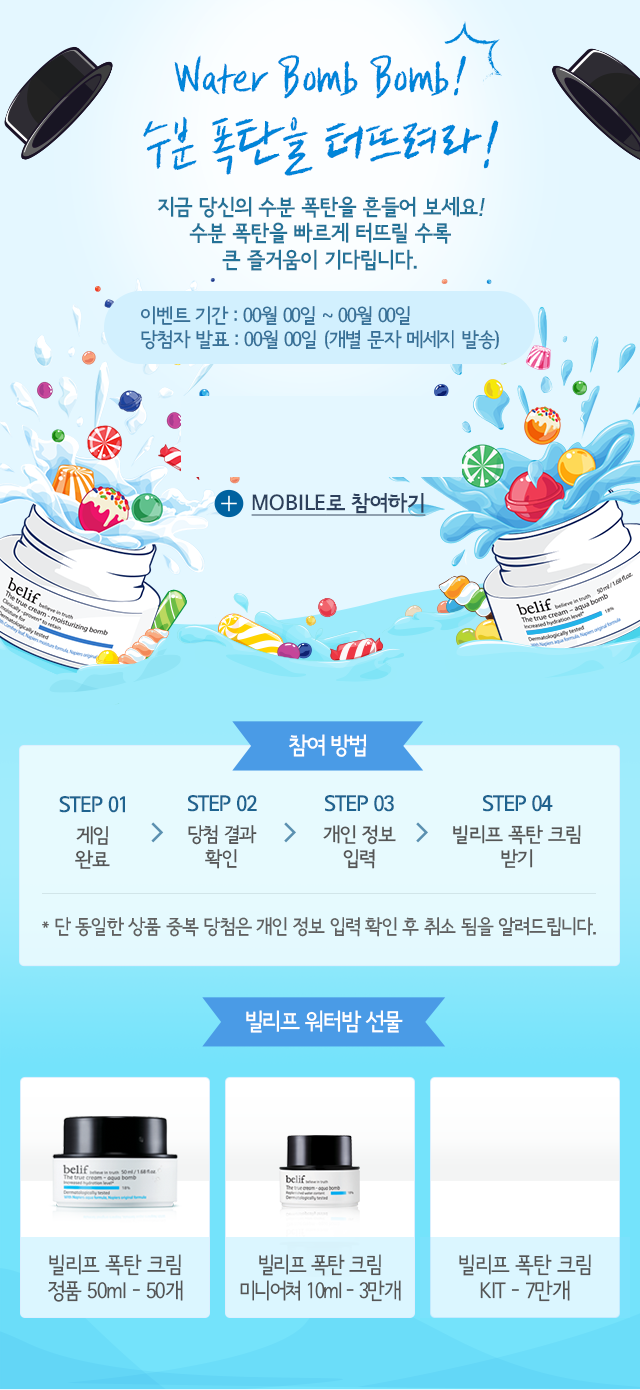
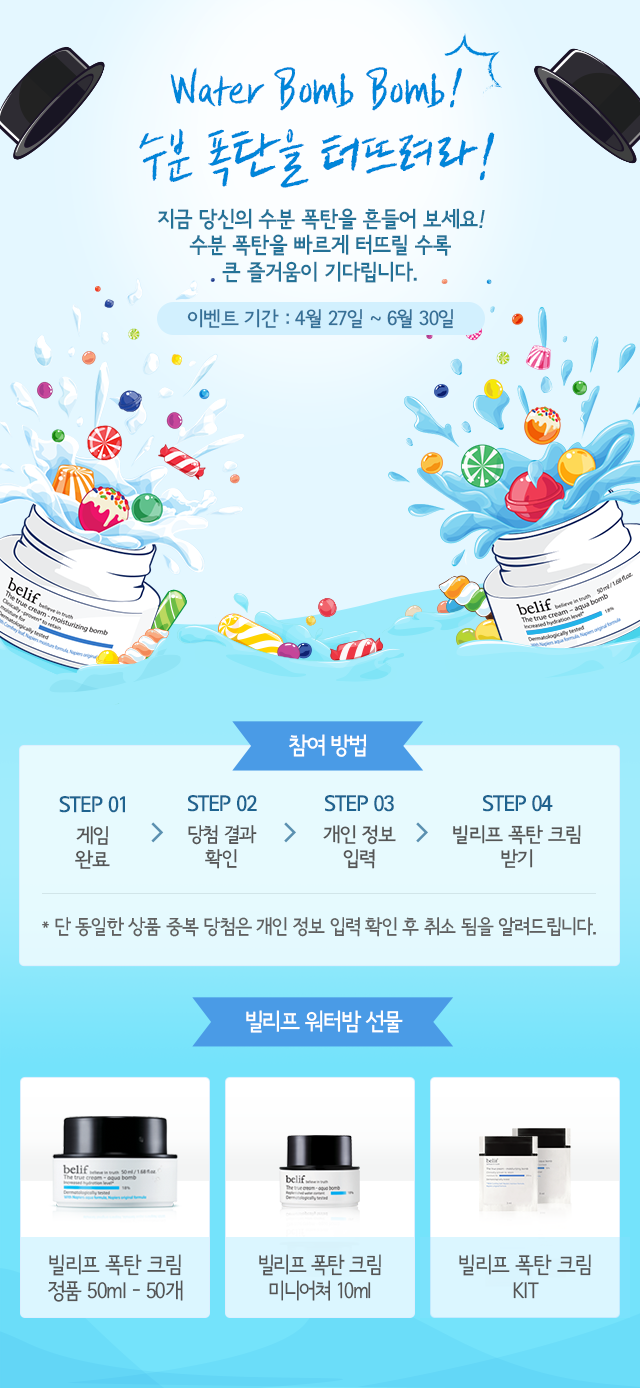
모바일 코

diff --git a/MOBILE/css/style.css b/MOBILE/css/style.css
@@ -150,27 +150,48 @@ html[xmlns] .clearfix {
 
 .menu {
 	width:100%;
-	border-bottom:1px solid #ccc;
+	border-bottom:1px solid #cae7f3;
+	position:fixed;
+	top:0;
+	z-index:10000;
+	background:#fff;
 }
 
 .menu a{
 	display:block;
 	float:left;
 }
+.menu a.logo{
+	padding-top:10px;
+	padding-left:10px;
+	width:15%;
+}
+.menu a.logo img{
+	width:100%;
+}
 .menu a.menu_ham{
 	display:block;
 	float:right;
+	width:12%;
+	background:#effaff;
+	padding:10px 0;
+	text-align:center;
+}
+.menu a.menu_ham img{
+	width:70%;
 }
 
 .block_game{
 	position:relative;
 	width:100%;
 	text-align:center;
-	height:100%;
+	margin-bottom: -1.2%;
+	padding-top:10%;
 }
 .block_game .inner_ele{
 	width:100%;
 	position:absolute;
+	top:28%;
 }
 .block_game .bg_top{
 }
@@ -198,6 +219,97 @@ html[xmlns] .clearfix {
 .block_game .txt_2 img{
 	width:95%;
 }
+
+.offevent1 {
+	position:relative;
+	width:100%;
+	text-align:center;
+	margin-bottom: -1.2%;
+}
+.offevent1 .inner_ele{
+	width:100%;
+	position:absolute;
+	top:30%;
+}
+.offevent1 .btn_block{
+	padding:5% 0;
+}
+.offevent1 .btn_block a img{
+	width:40%;
+}
+.bg_offevnet1 img{
+	width:100%;
+}
+
+
+
+
+.offevent2 {
+	position:relative;
+	width:100%;
+	text-align:center;
+	margin-bottom: -1.2%;
+}
+.offevent2 .inner_ele{
+	width:100%;
+	position:absolute;
+	top:23.5%;
+}
+.offevent2 .btn_block{
+	padding:5% 0;
+}
+.offevent2 .btn_block a img{
+	width:40%;
+}
+.bg_offevnet2 img{
+	width:100%;
+}
+
+
+.mbom1 {
+	position:relative;
+	width:100%;
+	text-align:center;
+	margin-bottom: -1.2%;
+}
+.mbom1 .inner_ele{
+	width:100%;
+	position:absolute;
+	bottom:4.5%;
+}
+.mbom1 .btn_block{
+	padding:5% 0;
+}
+.mbom1 .btn_block a img{
+	width:50%;
+}
+.bg_mbom img{
+	width:100%;
+}
+
+
+.abom1 {
+	position:relative;
+	width:100%;
+	text-align:center;
+	margin-bottom: -1.2%;
+}
+.abom1 .inner_ele{
+	width:100%;
+	position:absolute;
+	bottom:4.5%;
+}
+.abom1 .btn_block{
+	padding:5% 0;
+}
+.abom1 .btn_block a img{
+	width:50%;
+}
+.bg_abom img{
+	width:100%;
+}
+
+
 
 .img_wrap{
 	width:100%;

diff --git a/MOBILE/index.php b/MOBILE/index.php
@@ -2,39 +2,60 @@
 	include_once "./header.php";
 ?>
 <div class="menu clearfix">
-   <a href="localhost/beliefbomb/MOBILE/index.php" target="_blank"><img src="img/logo.png" width="60" alt=""/></a>
-   <a href="http://www.belifcosmetic.com/" target="_blank" class="menu_ham"><img src="img/menu_ham.png" width="45" alt=""/></a>
+   <a href="localhost/beliefbomb/MOBILE/index.php" target="_blank" class="logo"><img src="img/logo.png" alt=""/></a>
+   <a href="http://www.belifcosmetic.com/" target="_blank" class="menu_ham"><img src="img/menu_ham.png" alt=""/></a>
 </div>
 <div>
   <div>
     <div class="block_game">
       <div class="inner_ele">
-          <div class="title img_wrap"><img src="img/title.png" alt=""/></div>
           <div class="btn_block">
           	<a href="#" data-mfp-src="#input_div" class="popup-with-zoom-anim" style="background:none;outline: none;">
             	<img src="img/btn_game_go.png" alt=""/>
             </a>
           </div>
-          <div class="txt_1 img_wrap">
-            <img src="img/txt_game_info_1.png" alt=""/>
-          </div>
-          <div class="txt_2 img_wrap">
-            <img src="img/txt_game_info_2.png" alt=""/>
-          </div>
       </div>   
       <div class="bg_top img_wrap"><img src="img/bg_top.png" alt=""/></div>   
+    </div>
+    <div class="offevent1">
+        <div class="inner_ele">
+            <div class="btn_block">
+              <a href="#"><img src="img/btn_cal.png" alt=""/></a>
+            </div>
+        </div>    
+    	<div class="bg_offevnet1 img_wrap"><img src="img/bg_offevent1.png" alt=""/></div>  
+    </div>
+    <div class="offevent2">
+        <div class="inner_ele">
+            <div class="btn_block">
+              <a href="#"><img src="img/btn_cal.png" alt=""/></a>
+            </div>
+        </div>    
+    	<div class="bg_offevnet2 img_wrap"><img src="img/bg_offevent2.png" alt=""/></div>  
+    </div>
+    <div class="mbom1">
+        <div class="inner_ele">
+            <div class="btn_block">
+              <a href="#"><img src="img/btn_detail_m.png" alt=""/></a>
+            </div>
+        </div>    
+    	<div class="bg_mbom img_wrap"><img src="img/bg_mbom1.png" alt=""/></div>  
+    </div>
+    <div class="abom1">
+        <div class="inner_ele">
+            <div class="btn_block">
+              <a href="#"><img src="img/btn_detail_a.png" alt=""/></a>
+            </div>
+        </div>    
+    	<div class="bg_abom img_wrap"><img src="img/bg_abom1.png" alt=""/></div>  
+    </div>
+    <div class="footer img_wrap">
+    	<img src="img/footer.png"  alt=""/>
     </div>
     <div>
       <a href="#" onclick="sns_share('facebook');">페북</a>
       <a href="#" onclick="sns_share('kakao');">까톡</a>
       <a href="#" onclick="sns_share('twitter');">트윗</a>
-    </div>
-    <div>
-      <a href="#" onclick="view_mb">제품보기 모이스쳐밤</a>
-      <a href="#" onclick="view_ab">제품보기 아쿠아밤</a>
-    </div>
-    <div class="footer img_wrap">
-    	<img src="img/footer.png"  alt=""/>
     </div>
 </div>
 <!---------------------------------------참여자 정보 입력 팝업------------------------------------->
